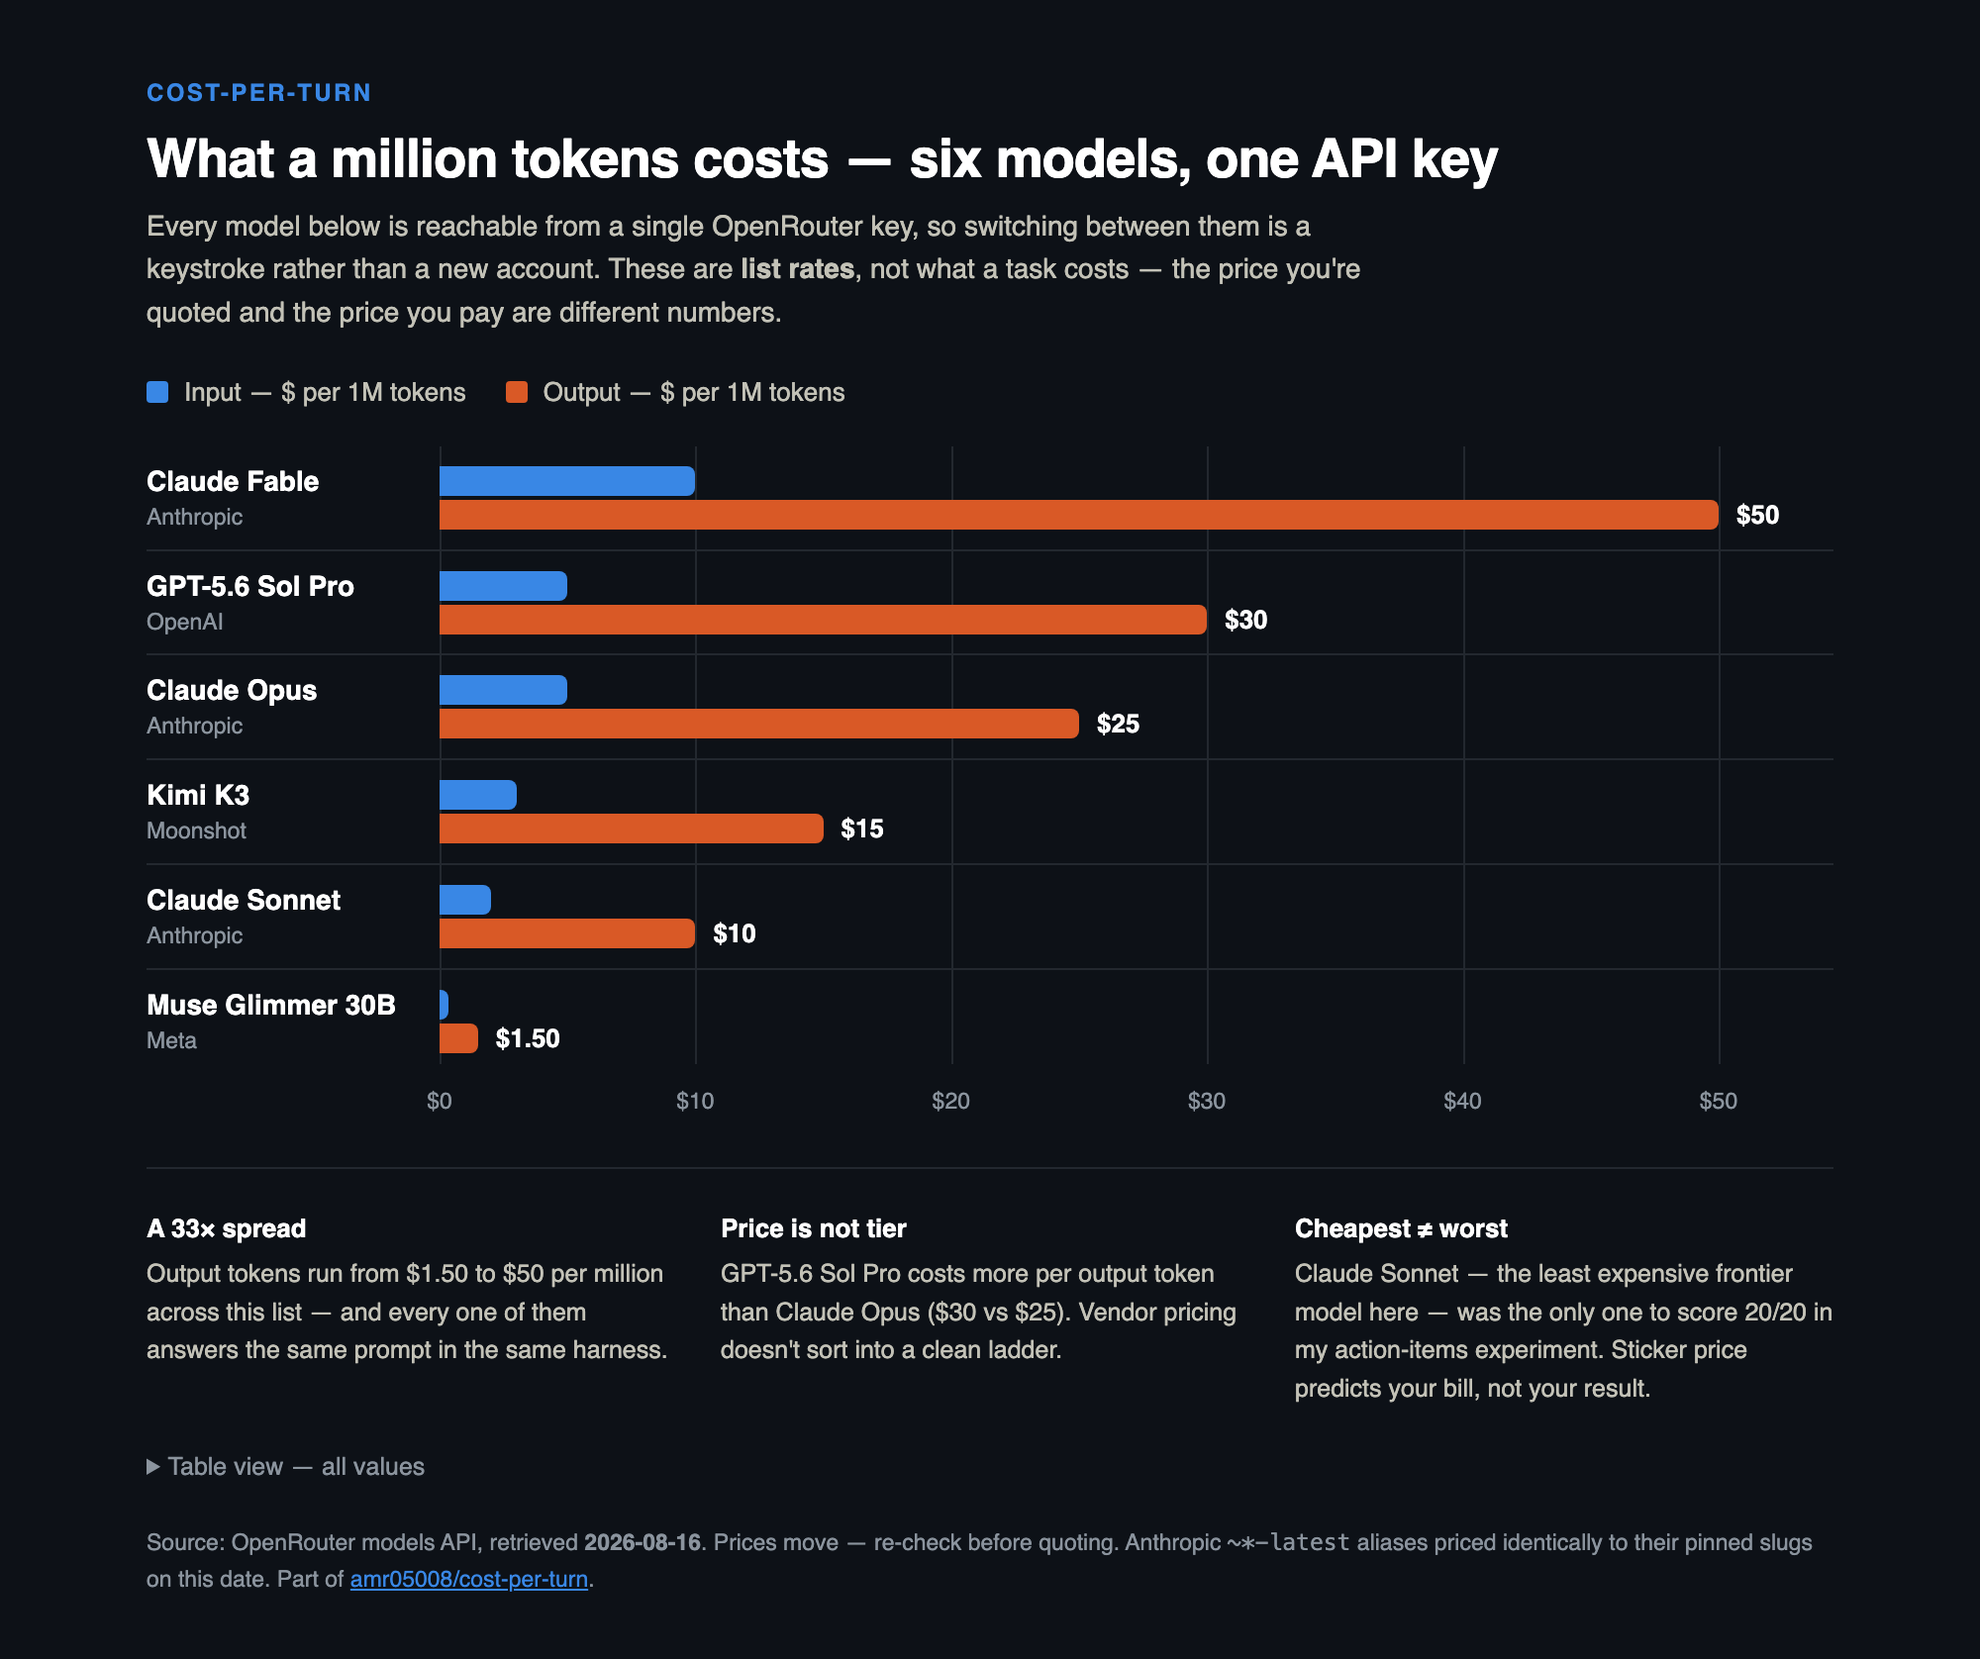
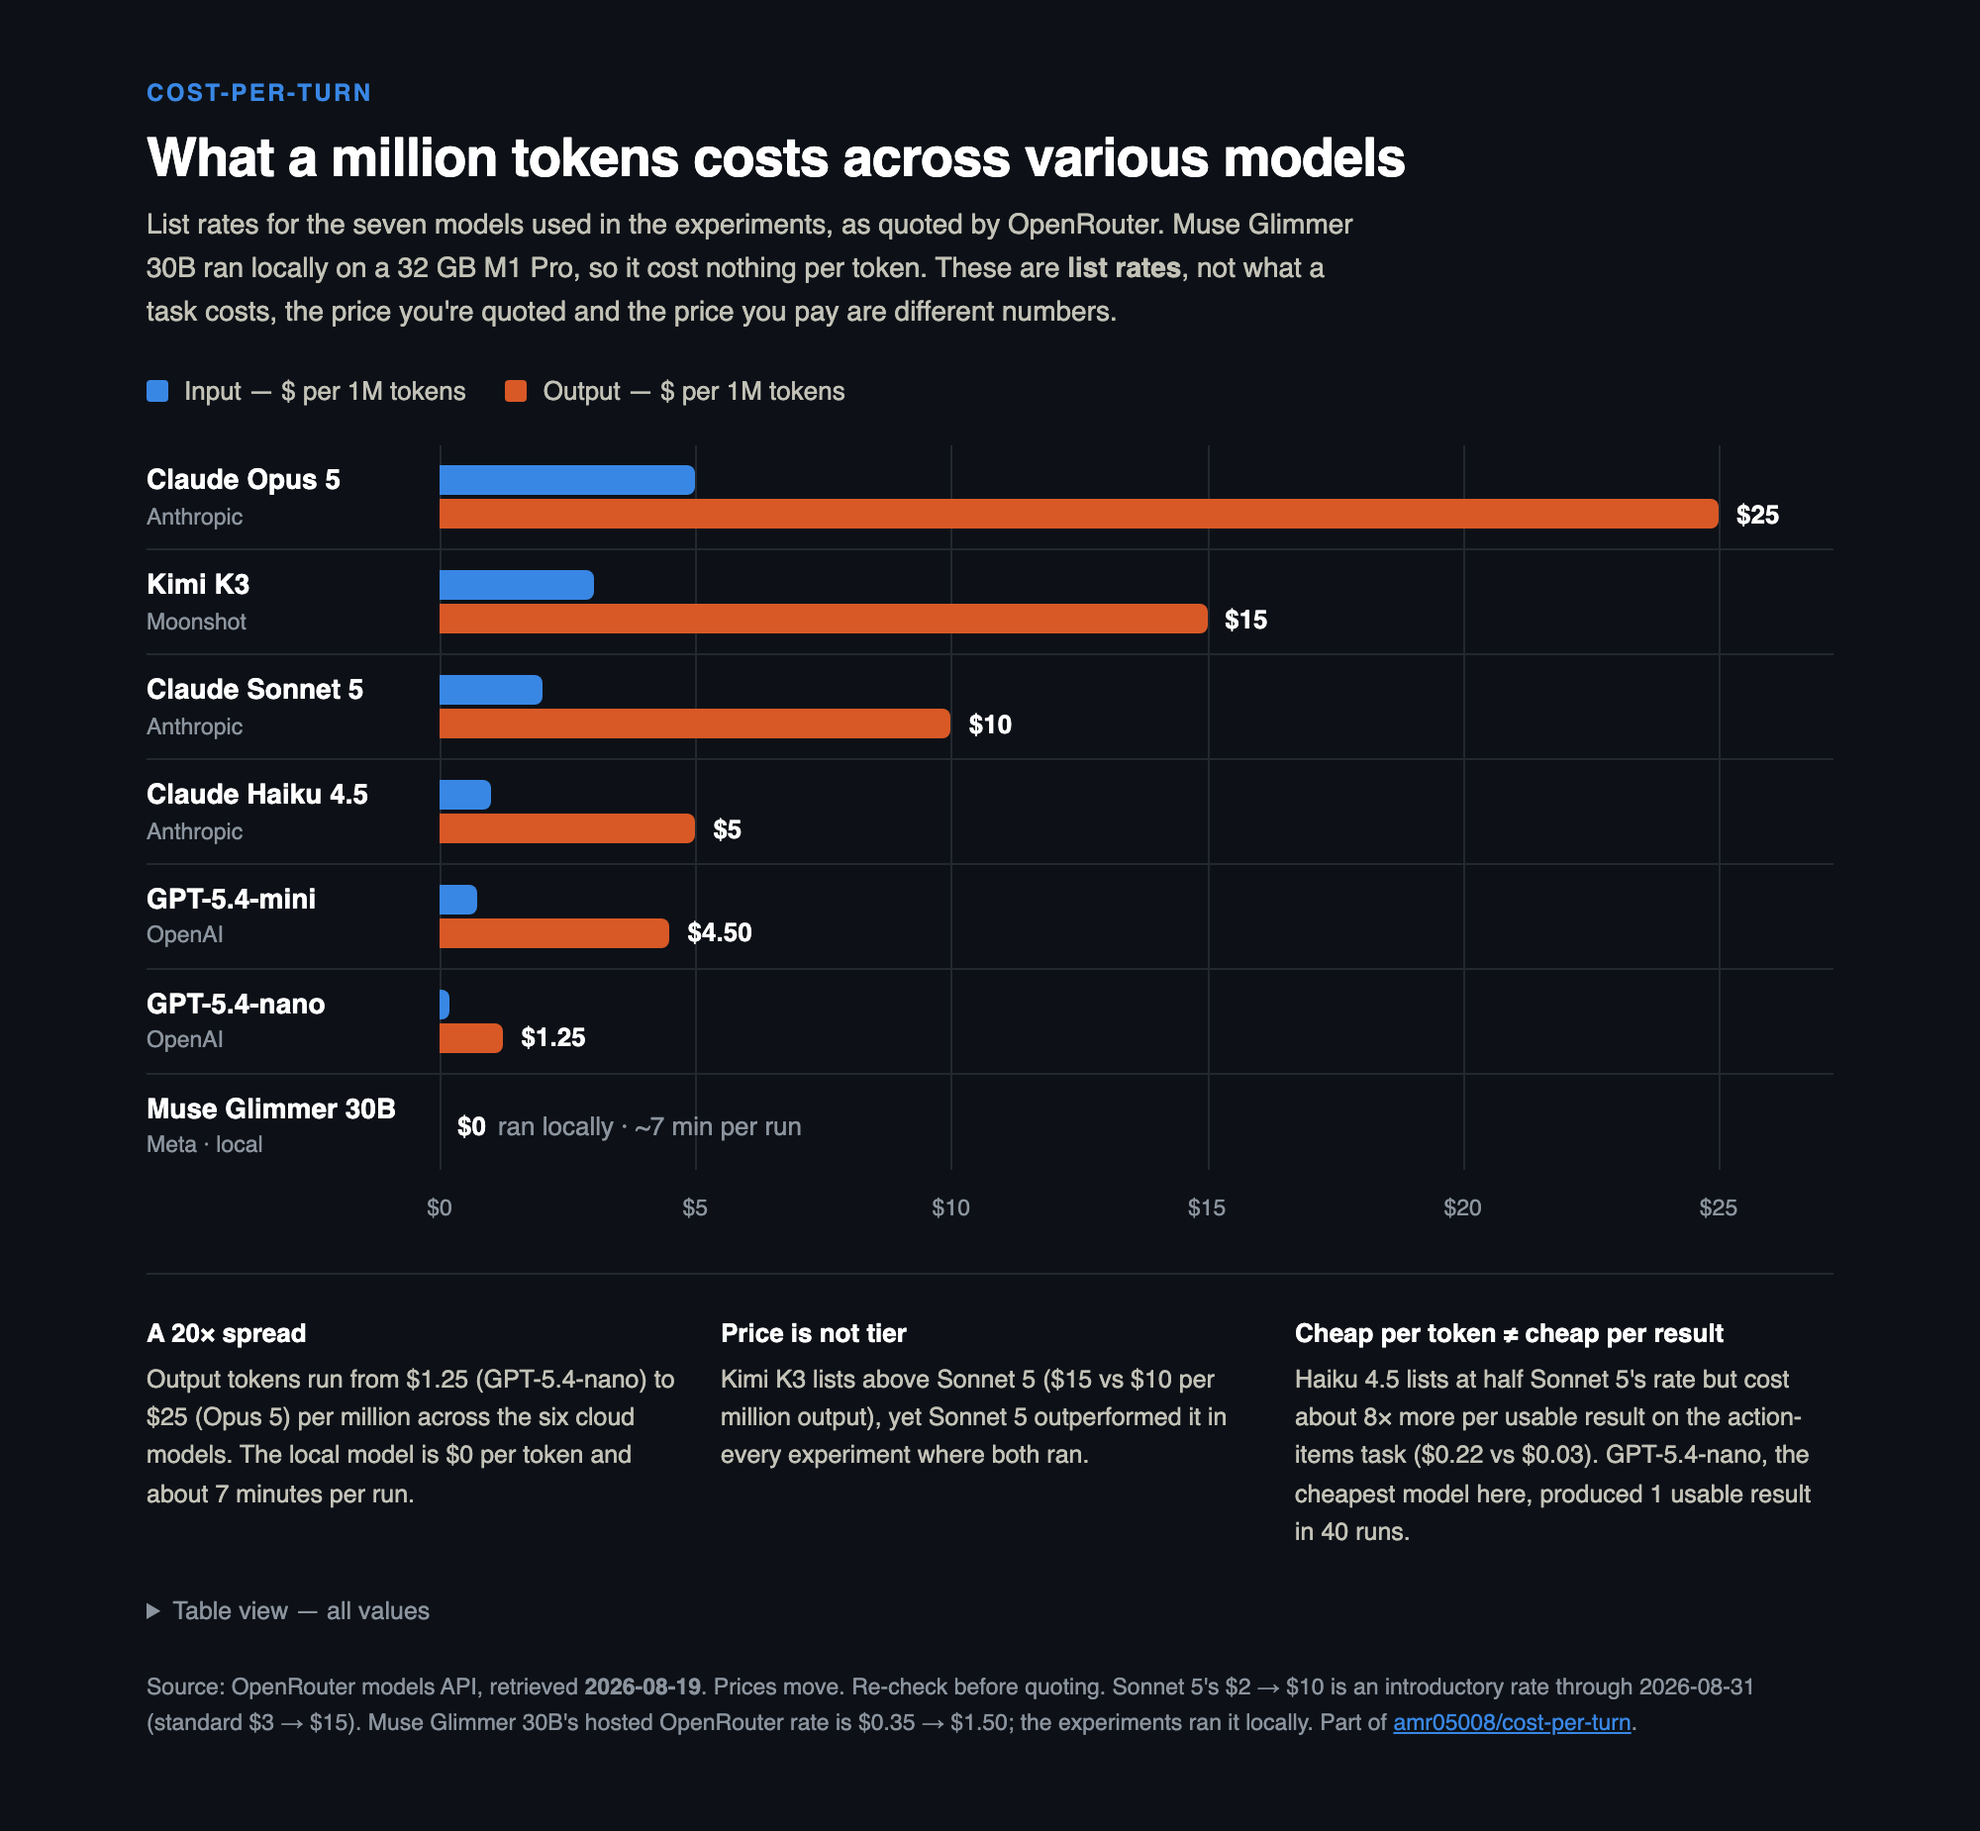
updated version of model pricing chart

diff --git a/figures/model-pricing.html b/figures/model-pricing.html
@@ -6,17 +6,19 @@
 <title>What a million tokens costs</title>
 <style>
   /* Tokens live on :root so the page gutter outside the card reads them too.
-     Light is the bare-:root default; dark is *selected* (its own steps from the
-     same hues, validated against the dark surface), declared under both the OS
-     media query and the explicit theme stamp so a toggle wins either way. */
+     Light is the bare-:root default and sits on pure white so the rendered PNG
+     drops onto a white blog page with no visible card edge. Dark is *selected*
+     (its own steps from the same hues, validated against the dark surface),
+     declared under both the OS media query and the explicit theme stamp so a
+     toggle wins either way. */
   :root {
     color-scheme: light;
-    --surface-1:      #fcfcfb;
-    --surface-2:      #f2f2f0;
+    --surface-1:      #ffffff;
+    --surface-2:      #f4f4f2;
     --text-primary:   #0b0b0b;
     --text-secondary: #52514e;
     --text-muted:     #86847e;
-    --rule:           #e2e1dd;
+    --rule:           #e5e5e2;
     --series-1:       #2a78d6;
     --series-2:       #eb6834;
   }
@@ -93,10 +95,15 @@
   }
   .bar.in  { background: var(--series-1); margin-bottom: 2px; } /* 2px surface gap */
   .bar.out { background: var(--series-2); }
+  /* a model that ran locally has no per-token price: no bars, just a label
+     centred where the pair of bars would sit, offset like every other tip */
+  .track.local { min-height: 32px; }
+  .track.local .tip { left: 9px; }
   .tip {
     position: absolute; left: calc(100% + 9px); top: 50%; transform: translateY(-50%);
     font-size: 13px; font-weight: 650; color: var(--text-primary); white-space: nowrap;
   }
+  .tip em { font-style: normal; font-weight: 400; color: var(--text-muted); margin-left: 6px; }
   .axis {
     display: grid; grid-template-columns: 132px 1fr; gap: 16px;
     font-size: 11.5px; color: var(--text-muted); padding-top: 8px;
@@ -136,8 +143,8 @@
 <div class="viz-root">
 
   <p class="kicker">cost-per-turn</p>
-  <h1>What a million tokens costs — six models, one API key</h1>
-  <p class="sub">Every model below is reachable from a single OpenRouter key, so switching between them is a keystroke rather than a new account. These are <strong>list rates</strong>, not what a task costs — the price you're quoted and the price you pay are different numbers.</p>
+  <h1>What a million tokens costs across various models</h1>
+  <p class="sub">List rates for the seven models used in the experiments, as quoted by OpenRouter. Muse Glimmer 30B ran locally on a 32 GB M1 Pro, so it cost nothing per token. These are <strong>list rates</strong>, not what a task costs, the price you're quoted and the price you pay are different numbers.</p>
 
   <div class="legend">
     <span><i class="swatch" style="background:var(--series-1)"></i> Input&nbsp;— $ per 1M tokens</span>
@@ -147,9 +154,9 @@
   <div class="plot" id="plot"></div>
 
   <div class="note">
-    <p><b>A 33× spread</b>Output tokens run from $1.50 to $50 per million across this list — and every one of them answers the same prompt in the same harness.</p>
-    <p><b>Price is not tier</b>GPT-5.6 Sol Pro costs more per output token than Claude Opus ($30 vs $25). Vendor pricing doesn't sort into a clean ladder.</p>
-    <p><b>Cheapest ≠ worst</b>Claude Sonnet — the least expensive frontier model here — was the only one to score 20/20 in my action-items experiment. Sticker price predicts your bill, not your result.</p>
+    <p><b>A 20× spread</b>Output tokens run from $1.25 (GPT-5.4-nano) to $25 (Opus 5) per million across the six cloud models. The local model is $0 per token and about 7 minutes per run.</p>
+    <p><b>Price is not tier</b>Kimi K3 lists above Sonnet 5 ($15 vs $10 per million output), yet Sonnet 5 outperformed it in every experiment where both ran.</p>
+    <p><b>Cheap per token ≠ cheap per result</b>Haiku 4.5 lists at half Sonnet 5's rate but cost about 8× more per usable result on the action-items task ($0.22 vs $0.03). GPT-5.4-nano, the cheapest model here, produced 1 usable result in 40 runs.</p>
   </div>
 
   <details>
@@ -161,21 +168,22 @@
   </details>
 
   <p class="foot">
-    Source: OpenRouter models API, retrieved <strong>2026-08-16</strong>. Prices move — re-check before quoting.
-    Anthropic <code>~*-latest</code> aliases priced identically to their pinned slugs on this date.
+    Source: OpenRouter models API, retrieved <strong>2026-08-19</strong>. Prices move. Re-check before quoting. Sonnet 5's $2 → $10 is an introductory rate through 2026-08-31 (standard $3 → $15). Muse Glimmer 30B's hosted OpenRouter rate is $0.35 → $1.50; the experiments ran it locally.
     Part of <a href="https://github.com/amr05008/cost-per-turn">amr05008/cost-per-turn</a>.
   </p>
 </div>
 
 <script>
-const MAX = 50, TICKS = [0,10,20,30,40,50];
+const MAX = 25, TICKS = [0,5,10,15,20,25];
 const DATA = [
-  { name:"Claude Fable",  vendor:"Anthropic", slug:"~anthropic/claude-fable-latest",  in:10.00, out:50.00 },
-  { name:"GPT-5.6 Sol Pro", vendor:"OpenAI",  slug:"openai/gpt-5.6-sol-pro",          in: 5.00, out:30.00 },
-  { name:"Claude Opus",   vendor:"Anthropic", slug:"~anthropic/claude-opus-latest",   in: 5.00, out:25.00 },
-  { name:"Kimi K3",       vendor:"Moonshot",  slug:"moonshotai/kimi-k3",              in: 3.00, out:15.00 },
-  { name:"Claude Sonnet", vendor:"Anthropic", slug:"~anthropic/claude-sonnet-latest", in: 2.00, out:10.00 },
-  { name:"Muse Glimmer 30B", vendor:"Meta",   slug:"meta/muse-glimmer-30b",           in: 0.35, out: 1.50 },
+  { name:"Claude Opus 5",   vendor:"Anthropic", slug:"anthropic/claude-opus-5",   in:5.00, out:25.00 },
+  { name:"Kimi K3",         vendor:"Moonshot",  slug:"moonshotai/kimi-k3",        in:3.00, out:15.00 },
+  { name:"Claude Sonnet 5", vendor:"Anthropic", slug:"anthropic/claude-sonnet-5", in:2.00, out:10.00 },
+  { name:"Claude Haiku 4.5",vendor:"Anthropic", slug:"anthropic/claude-haiku-4.5",in:1.00, out: 5.00 },
+  { name:"GPT-5.4-mini",    vendor:"OpenAI",    slug:"openai/gpt-5.4-mini",       in:0.75, out: 4.50 },
+  { name:"GPT-5.4-nano",    vendor:"OpenAI",    slug:"openai/gpt-5.4-nano",       in:0.20, out: 1.25 },
+  { name:"Muse Glimmer 30B",vendor:"Meta · local", slug:"meta/muse-glimmer-30b",  in:0.00, out: 0.00,
+    local:"ran locally · ~7 min per run", hosted:"hosted rate $0.35 → $1.50" },
 ];
 const money = v => "$" + (v % 1 ? v.toFixed(2) : v.toFixed(0));
 // every bar, gridline and tick divides the same track width minus the label gutter
@@ -188,7 +196,13 @@ grid.innerHTML = TICKS.map(t =>
   `<i style="left:calc(132px + 16px + (100% - 132px - 16px - var(--lab)) * ${t/MAX})"></i>`).join("");
 plot.appendChild(grid);
 
-plot.insertAdjacentHTML("beforeend", DATA.map(d => `
+plot.insertAdjacentHTML("beforeend", DATA.map(d => d.local ? `
+  <div class="row">
+    <div class="name">${d.name}<span class="vendor">${d.vendor}</span></div>
+    <div class="track local" title="${d.name} — $0 per 1M tokens in and out, ${d.local}">
+      <span class="tip">$0<em>${d.local}</em></span>
+    </div>
+  </div>` : `
   <div class="row">
     <div class="name">${d.name}<span class="vendor">${d.vendor}</span></div>
     <div class="track">
@@ -203,7 +217,7 @@ plot.insertAdjacentHTML("beforeend", `
   </div></div>`);
 
 document.getElementById("tbody").innerHTML = DATA.map(d => `
-  <tr><td class="m">${d.name}</td><td><code>${d.slug}</code></td><td>${money(d.in)}</td><td>${money(d.out)}</td></tr>`).join("");
+  <tr><td class="m">${d.name}</td><td><code>${d.slug}</code>${d.hosted ? ` <span>(${d.local}; ${d.hosted})</span>` : ""}</td><td>${money(d.in)}</td><td>${money(d.out)}</td></tr>`).join("");
 </script>
 </body>
 </html>

diff --git a/README.md b/README.md
@@ -217,24 +217,26 @@ without an `as_of` is a figure you can't trust six weeks later.
 
 ### What a million tokens costs
 
-Six models reachable from a single OpenRouter key, list rates as of 2026-08-16.
-Source: [`figures/model-pricing.html`](figures/model-pricing.html) — open it for
-the hover values and the full table.
+The seven models used in the experiments, list rates as of 2026-08-19. Six are
+cloud models priced off OpenRouter; Muse Glimmer 30B ran locally, so it sits at
+$0 per token. Source: [`figures/model-pricing.html`](figures/model-pricing.html)
+— open it for the hover values and the full table.
 
 <picture>
   <source media="(prefers-color-scheme: dark)" srcset="figures/model-pricing-dark.png">
-  <img alt="Horizontal bar chart comparing input and output token prices for six models. Output rates: Claude Fable $50, GPT-5.6 Sol Pro $30, Claude Opus $25, Kimi K3 $15, Claude Sonnet $10, Muse Glimmer 30B $1.50 per million tokens." src="figures/model-pricing-light.png">
+  <img alt="Horizontal bar chart comparing input and output token prices for the seven models used in the experiments. Output rates per million tokens: Claude Opus 5 $25, Kimi K3 $15, Claude Sonnet 5 $10, Claude Haiku 4.5 $5, GPT-5.4-mini $4.50, GPT-5.4-nano $1.25, Muse Glimmer 30B $0 because it ran locally." src="figures/model-pricing-light.png">
 </picture>
 
 Three things this chart is for:
 
-- **A 33× spread in output pricing** across models that all answer the same
-  prompt in the same harness.
-- **Price is not tier.** GPT-5.6 Sol Pro costs more per output token than Claude
-  Opus. Vendor pricing doesn't sort into a clean ladder.
+- **A 20× spread in output pricing** across the six cloud models, from $1.25
+  (GPT-5.4-nano) to $25 (Opus 5), plus a local model that costs nothing per
+  token and about seven minutes per run.
+- **Price is not tier.** Kimi K3 lists above Sonnet 5, yet Sonnet 5
+  outperformed it in every experiment where both ran.
 - **List rate is not what a task costs.** That's the whole point of the
-  experiments below — the cheapest model here is not the cheapest *result*, and
-  the most expensive one isn't the best one either.
+  experiments below — Haiku 4.5 is half Sonnet 5's rate on paper and about 8×
+  the cost per usable result on the action-items task.
 
 ## Where this is going
 
